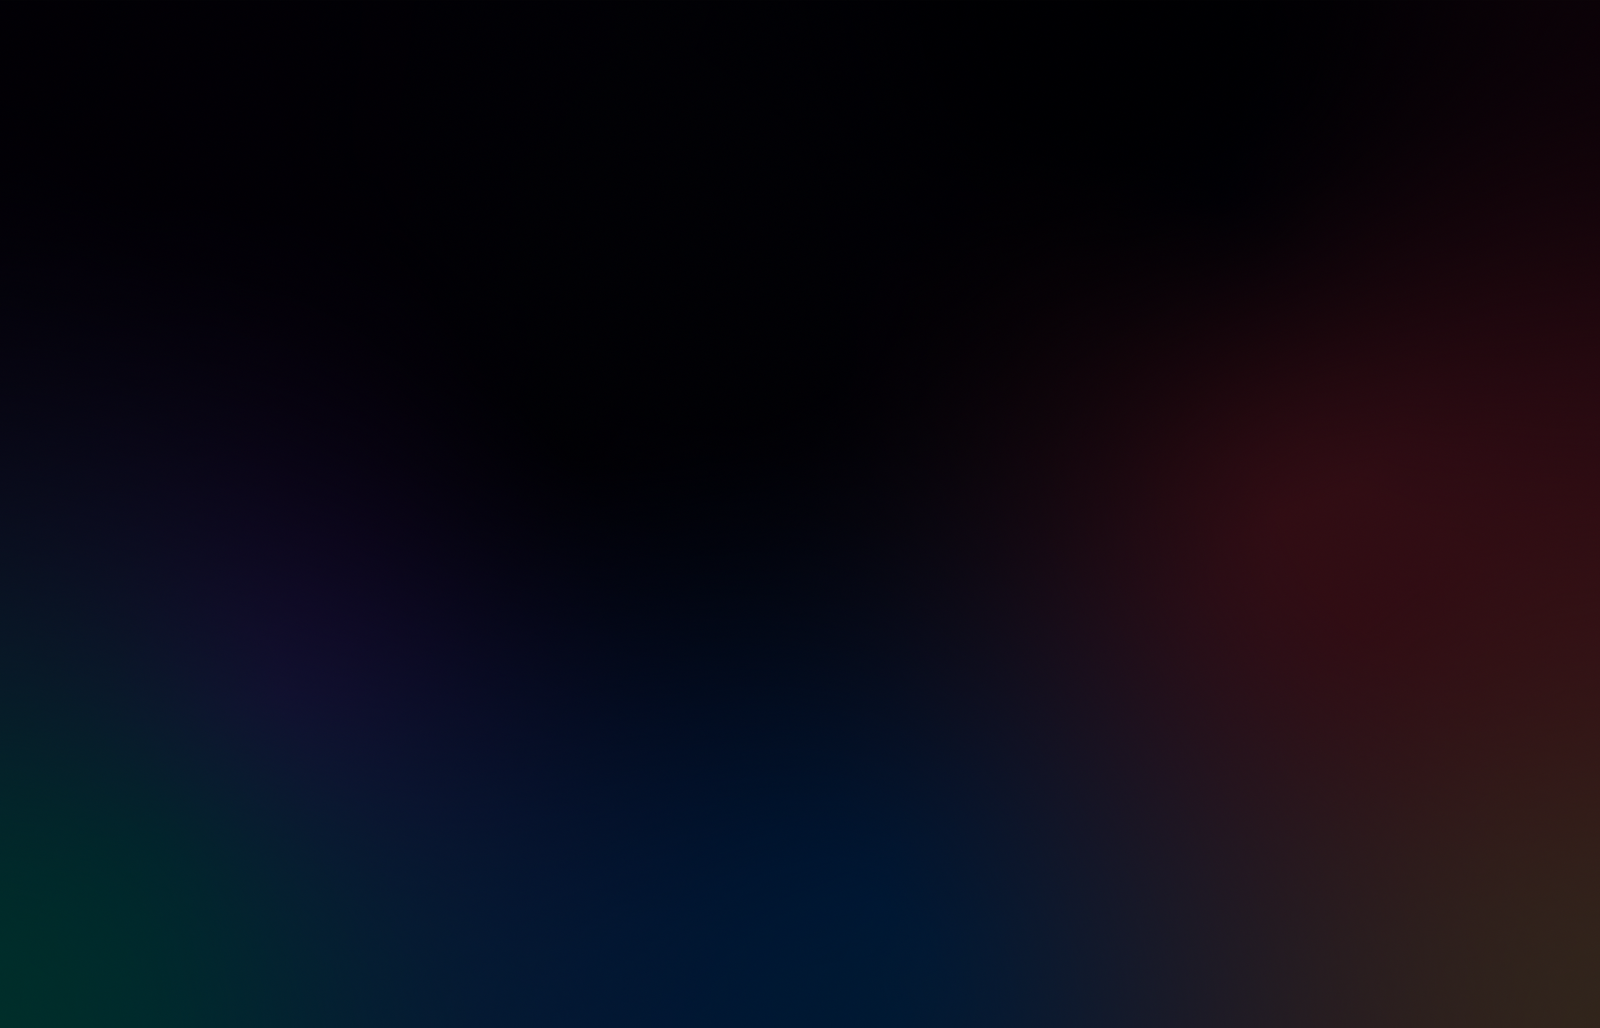
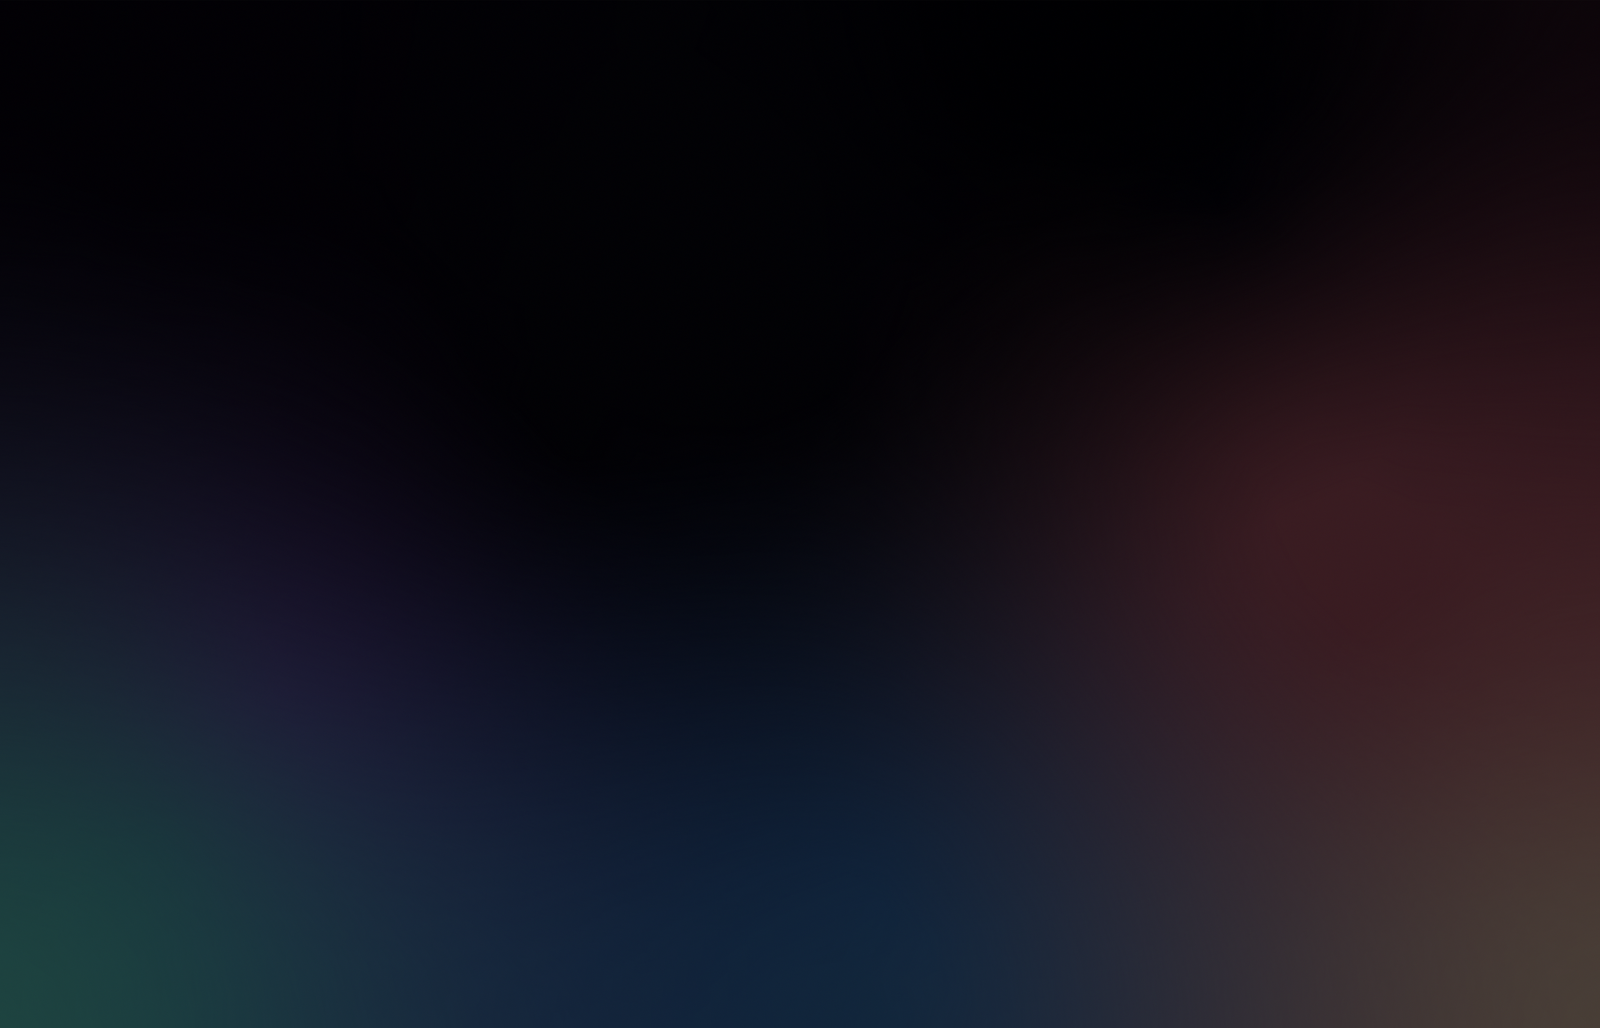
fix(themes): liquid-glass Aurora wallpaper brighter and less saturated
At 20% brightness Aurora read too dark and its colours too intense (the
glass's saturate(175%) boosts them further). It now keeps 33% brightness
and 50% of its saturation, mixed toward its own luma before the dither.
wallpapers.py takes brightness and saturation per wallpaper; Warm smoke
renders byte-identical.

Claude-Session: https://claude.ai/code/session_01Mq7EeaZ1doujBgyNPNUZka

Changed region(s): [[0.0, 0.7782, 0.1562, 1.0], [0.9062, 0.8405, 1.0, 1.0]]

diff --git a/docs/themes/examples/liquid-glass/theme.css b/docs/themes/examples/liquid-glass/theme.css
@@ -29,7 +29,7 @@
    inlines the chosen one as `--theme-wallpaper`. Graphite (`ground.png`, the default) is the pool
    mesh described above, rendered by `src/ground.py` — CSS gradients cannot draw it without rings
    (Chromium rounds each channel at these alphas; the script dithers before rounding). Aurora and
-   Warm smoke are photos darkened 80% by `src/wallpapers.py`. `cover` for all three: ground.png is
+   Warm smoke are photos darkened by `src/wallpapers.py` (Aurora 67% and desaturated, smoke 80%). `cover` for all three: ground.png is
    16:10, so a 16:9 window crops a sliver of an area that is already near-black. The small cool
    light over the app name stays CSS: it is px-sized and sits under the header glass. */
 body {

diff --git a/docs/themes/examples/liquid-glass/src/wallpapers.py b/docs/themes/examples/liquid-glass/src/wallpapers.py
@@ -5,7 +5,9 @@
 Each photo is resized to 1600px wide (ground.png's width) and darkened to 20% brightness (the
 operator's 80% darken, 2026-09-24), in float, then given a triangular dither (±1 level) BEFORE
 rounding to 8 bits — the ground.py recipe: at 20% brightness a smooth gradient has ~40 codes left
-and bands without it.
+and bands without it. Aurora is the exception (2026-09-25): at 20% it read too dark and its colours
+too intense, so it keeps 33% brightness and 50% of its saturation (mixed toward its own luma,
+before the dither). The glass's saturate(175%) boosts whatever colour is left, so less is more.
 
 The output is PNG, never JPEG. The first cut was JPEG q90 and showed both faults the dither exists
 to prevent (measured 2026-09-24): JPEG smoothed the dither away inside each 8x8 block (neighbour
@@ -24,15 +26,18 @@ from PIL import Image
 Image.MAX_IMAGE_PIXELS = None
 
 WIDTH = 1600
-KEEP = 0.2  # 80% darker
-OUT = ["aurora.png", "smoke.png"]
+# (output, brightness kept, saturation kept) — in argv order.
+OUT = [("aurora.png", 0.33, 0.5), ("smoke.png", 0.2, 1.0)]
+LUMA = [0.2126, 0.7152, 0.0722]
 
 
-def render(src: str, dst: str, seed: int) -> None:
+def render(src: str, dst: str, keep: float, sat: float, seed: int) -> None:
     img = Image.open(src).convert("RGB")
     h = round(img.height * WIDTH / img.width)
     img = img.resize((WIDTH, h), Image.Resampling.LANCZOS)
-    a = np.asarray(img, dtype=np.float64) * KEEP
+    a = np.asarray(img, dtype=np.float64) * keep
+    luma = (a @ LUMA)[..., None]
+    a = luma + (a - luma) * sat
     rng = np.random.default_rng(seed)
     a += rng.random(a.shape) - rng.random(a.shape)  # triangular, like ground.py
     Image.fromarray(np.clip(np.round(a), 0, 255).astype(np.uint8), "RGB").save(dst, optimize=True)
@@ -41,5 +46,5 @@ def render(src: str, dst: str, seed: int) -> None:
 if __name__ == "__main__":
     if len(sys.argv) != 3:
         sys.exit(__doc__)
-    for i, (src, dst) in enumerate(zip(sys.argv[1:], OUT)):
-        render(src, dst, 20260924 + i)
+    for i, (src, (dst, keep, sat)) in enumerate(zip(sys.argv[1:], OUT)):
+        render(src, dst, keep, sat, 20260924 + i)
